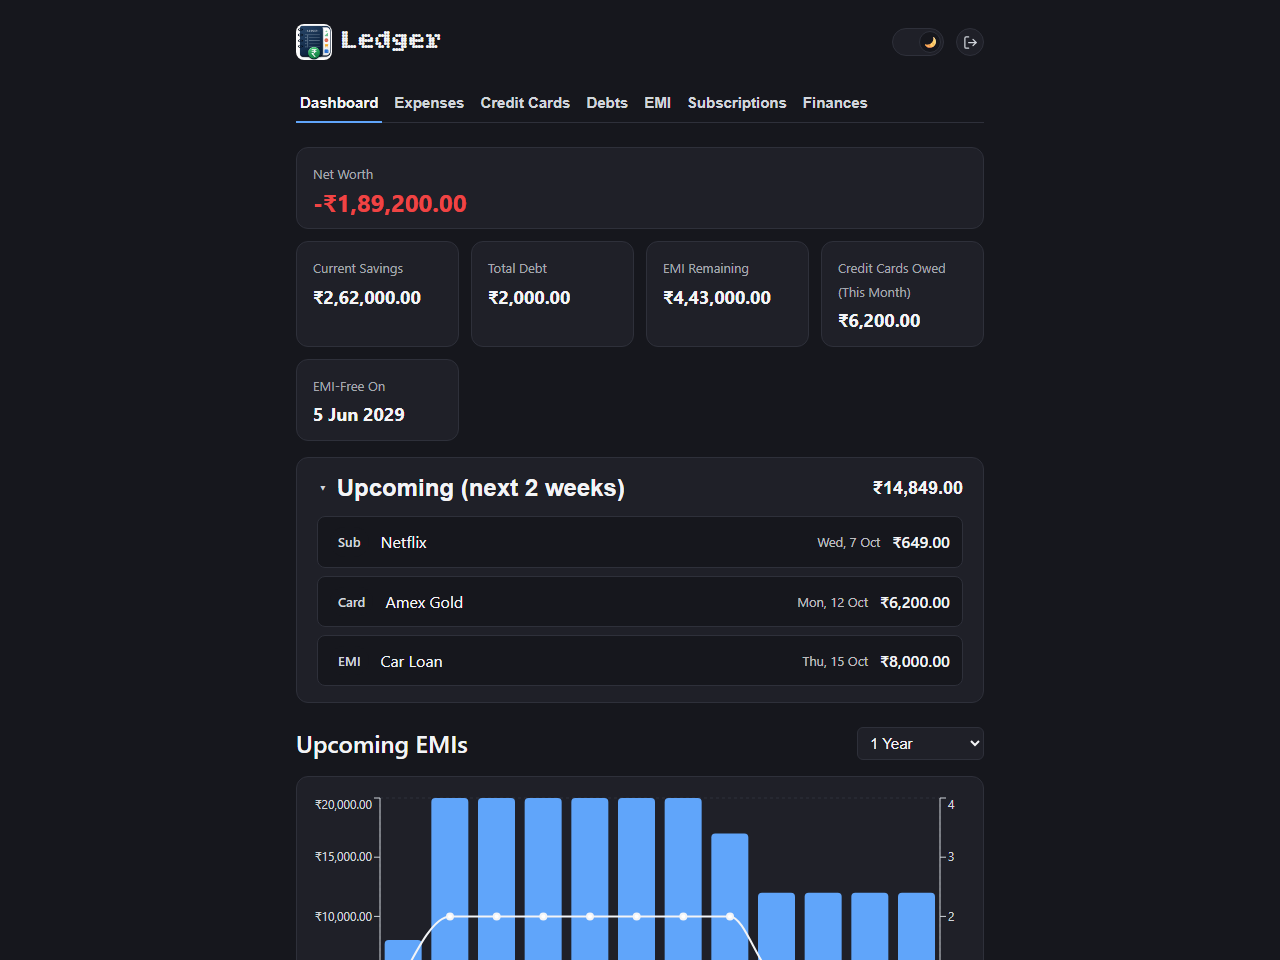
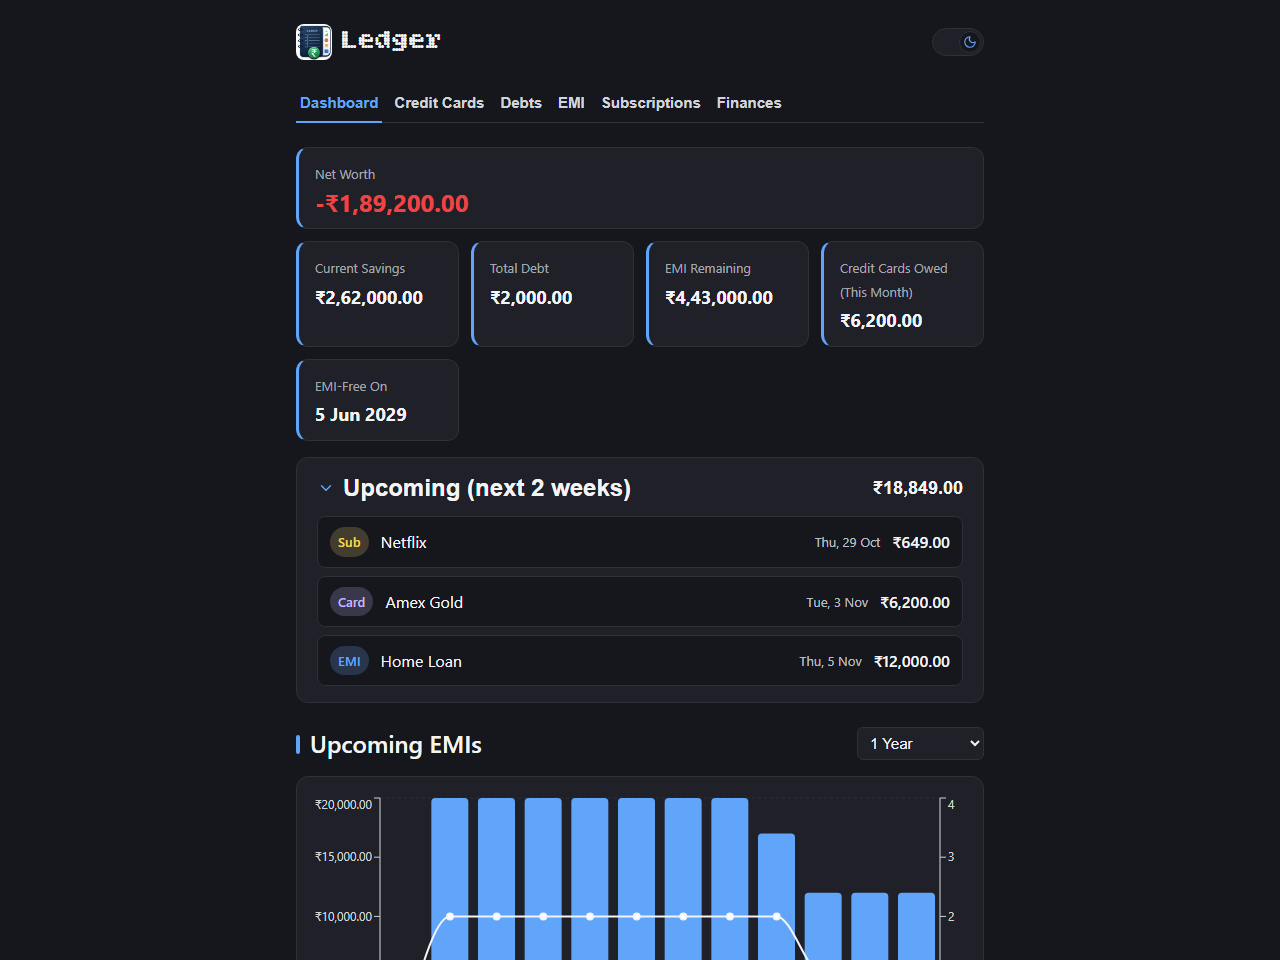
feat: Upcoming tags get their own colour per source
Every Upcoming item's tag (Sub, Card, EMI) was the same blue, so telling
an EMI from a card bill meant reading the tiny label. Each source now has
its own colour: EMI stays blue, Card is violet, Sub is amber, and the
Salary reminder is green as money coming in. The colours live in the
theme palette with light and dark values, and each tag's fill is a tint
of its colour mixed into the card colour, so the greenish row behind it
can't muddy it.

diff --git a/client/src/index.css b/client/src/index.css
@@ -8,6 +8,9 @@
   --light-accent: #3b82f6;
   /* Tinted fill behind blue text (tags) and the focus ring around inputs. */
   --light-accent-soft: #dbeafe;
+  /* Dashboard Upcoming tags: one colour per source (EMI uses --accent). */
+  --light-tag-card: #6d28d9;
+  --light-tag-sub: #b45309;
 
   --dark-text: #d1d5db;
   --dark-text-h: #f3f4f6;
@@ -16,6 +19,8 @@
   --dark-card-bg: #1f2028;
   --dark-accent: #60a5fa;
   --dark-accent-soft: #1e3a5f;
+  --dark-tag-card: #c4b5fd;
+  --dark-tag-sub: #fcd34d;
 
   /* Errors/destructive actions and success/positive figures read the same
      in both themes, so unlike the pairs above these aren't split by
@@ -35,6 +40,8 @@
   --card-bg: var(--light-card-bg);
   --accent: var(--light-accent);
   --accent-soft: var(--light-accent-soft);
+  --tag-card: var(--light-tag-card);
+  --tag-sub: var(--light-tag-sub);
 
   --sans: system-ui, 'Segoe UI', Roboto, sans-serif;
   --mono: ui-monospace, Consolas, monospace;
@@ -69,6 +76,8 @@
     --card-bg: var(--dark-card-bg);
     --accent: var(--dark-accent);
     --accent-soft: var(--dark-accent-soft);
+    --tag-card: var(--dark-tag-card);
+    --tag-sub: var(--dark-tag-sub);
   }
 }
 
@@ -83,6 +92,8 @@
   --card-bg: var(--light-card-bg);
   --accent: var(--light-accent);
   --accent-soft: var(--light-accent-soft);
+  --tag-card: var(--light-tag-card);
+  --tag-sub: var(--light-tag-sub);
   color-scheme: light;
 }
 
@@ -94,6 +105,8 @@
   --card-bg: var(--dark-card-bg);
   --accent: var(--dark-accent);
   --accent-soft: var(--dark-accent-soft);
+  --tag-card: var(--dark-tag-card);
+  --tag-sub: var(--dark-tag-sub);
   color-scheme: dark;
 }
 

diff --git a/client/src/components/DashboardOverview.tsx b/client/src/components/DashboardOverview.tsx
@@ -12,6 +12,15 @@ const SOURCE_LABEL: Record<UpcomingItem["source"], string> = {
   Salary: "Salary",
 };
 
+// Each source's tag gets its own colour (DashboardOverview.css), so EMIs,
+// cards and subscriptions are told apart at a glance.
+const SOURCE_CLASS: Record<UpcomingItem["source"], string> = {
+  EMI: "emi",
+  Subscription: "subscription",
+  "Credit Card": "credit-card",
+  Salary: "salary",
+};
+
 const UPCOMING_COLLAPSED_KEY = "ledger-upcoming-collapsed";
 
 function getInitialCollapsed(): boolean {
@@ -150,7 +159,7 @@ export function DashboardOverview({ modules, onSelectUpcomingItem }: Props) {
                                   : "Credit Cards"
                           }`}
                         >
-                          <span className="upcoming-source">{SOURCE_LABEL[item.source]}</span>
+                          <span className={`upcoming-source ${SOURCE_CLASS[item.source]}`}>{SOURCE_LABEL[item.source]}</span>
                           <span className="upcoming-name">{item.name}</span>
                           {item.source === "Salary" ? (
                             <>

diff --git a/client/src/components/DashboardOverview.css b/client/src/components/DashboardOverview.css
@@ -190,8 +190,25 @@
   font-weight: 600;
   padding: 3px 8px;
   border-radius: 999px;
-  background: var(--accent-soft);
-  color: var(--accent);
+  /* Each source sets --tag (below); the fill is a tint of the same colour
+     mixed into the card colour (opaque, so the greenish row behind it can't
+     muddy it), which works in both themes. */
+  --tag: var(--accent);
+  background: color-mix(in srgb, var(--tag) 16%, var(--card-bg));
+  color: var(--tag);
+}
+
+.upcoming-source.credit-card {
+  --tag: var(--tag-card);
+}
+
+.upcoming-source.subscription {
+  --tag: var(--tag-sub);
+}
+
+/* Money coming in, so the same green as the app's other positive figures. */
+.upcoming-source.salary {
+  --tag: var(--success);
 }
 
 .upcoming-name {

diff --git a/ARCHITECTURE.md b/ARCHITECTURE.md
@@ -258,9 +258,12 @@ has the full table. The differences:
   `--danger`, …) redefined per theme in `index.css`. Blue (`--accent`) marks
   interactive and structural UI: buttons, the active tab, icons, focus rings,
   stat-card edges and heading markers. Red/green stay reserved for money
-  (owed vs. saved), never decoration. `ThemeToggle.tsx` sets `data-theme` on
-  `<html>` and persists the choice to `localStorage`, falling back to
-  `prefers-color-scheme` until an explicit choice is made.
+  (owed vs. saved), never decoration. The Dashboard Upcoming tags
+  get one colour per source so they can be told apart at a glance: EMI on
+  `--accent`, cards on `--tag-card`, subscriptions on `--tag-sub`, and the
+  Salary reminder on `--success` (money coming in). `ThemeToggle.tsx` sets
+  `data-theme` on `<html>` and persists the choice to `localStorage`,
+  falling back to `prefers-color-scheme` until an explicit choice is made.
 - **Icons** are `lucide-react` SVG components (imported one by one, so only
   the icons used are bundled), never emoji: emoji render differently on every
   OS and can't take the theme's colours. A global `svg.lucide` rule sizes

diff --git a/README.md b/README.md
@@ -69,7 +69,8 @@ regenerated with `npm run screenshots`; see [Testing](#testing).)*
 
 **Dashboard**: Net Worth and an Upcoming list combining every EMI due date,
 subscription renewal, and outstanding credit card bill in the next two
-weeks, above a yearly spending chart. Supports light and dark themes:
+weeks (each tagged in its own colour: EMI blue, Card violet, Sub amber), above
+a yearly spending chart. Supports light and dark themes:
 
 | Light | Dark |
 |---|---|
